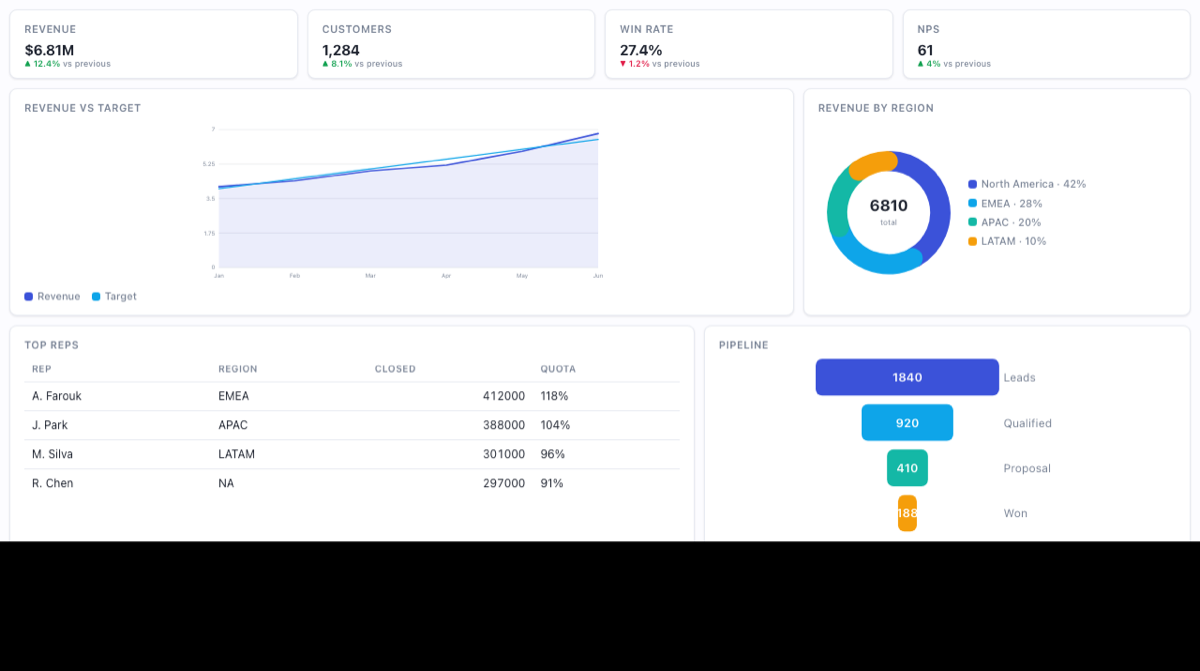
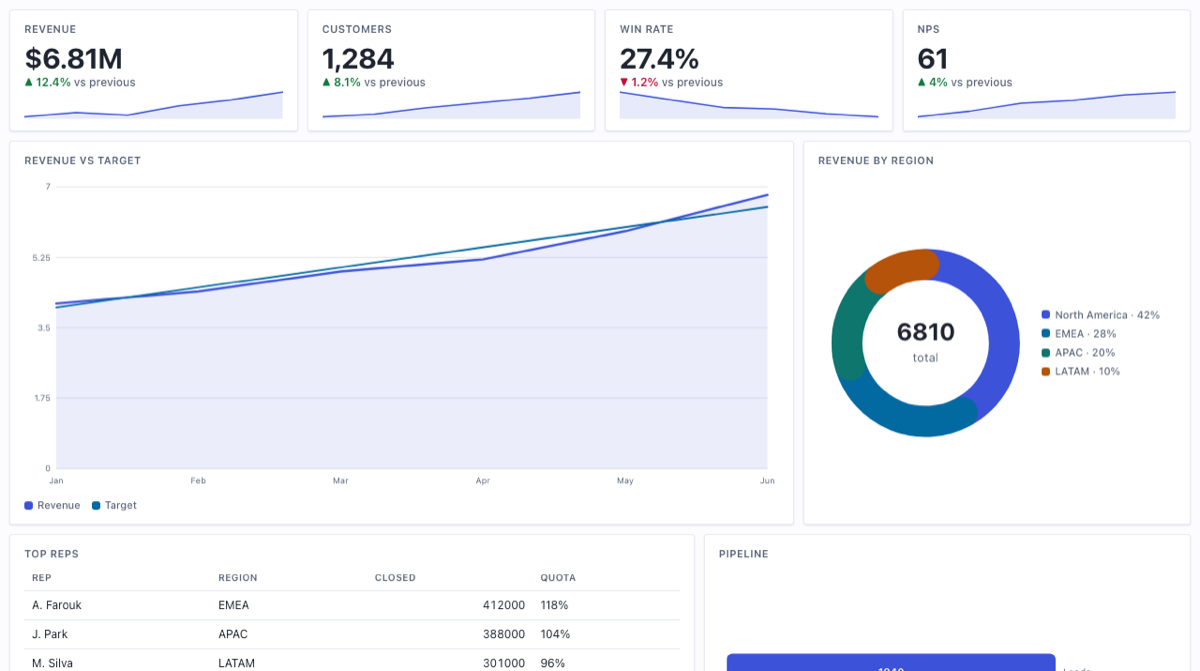
site: landing dashboard copy for the new kit; fresh fluid-board thumbnail

diff --git a/docs/index.html b/docs/index.html
@@ -328,9 +328,11 @@
           <span class="chip">Dashboards</span>
           <h3>Dashboards from pure data</h3>
           <p><b>Declare views as data; the kit packs the grid.</b> KPI cards, line, bar and donut
-            widgets tile a 12-column grid that is 100% of its container — drag to re-pack live, resize from any edge, undo any gesture,
+            widgets tile a 12-column grid that is 100% of its container — fluid by default, fitted to the frame or growing with it,
+            packed on a grid or shared through splitters. Drag from anywhere, the caption or a grip; resize from any edge; undo any gesture,
             or do all of it from the keyboard with every move announced.</p>
-          <p>Save and restore round-trips the whole board byte-for-byte.</p>
+          <p>Save and restore round-trips the whole board byte-for-byte — layouts, splitter trees and drag handle included. One flag, <code>static</code>, makes the same board read-only.</p>
+          <a class="go" href="demos/dashboard/fluid-board.html">Open the fluid dashboard →</a>
           <a class="go" href="demos/dashboard/dashboard-builder.html">Open the dashboard builder →</a>
         </div>
         <div class="story-stage">
@@ -409,7 +411,7 @@
           <p>ELK, dagre, force, tree, grid, and a zero-config <code>auto</code> — one prop. ELK loads lazily, so you ship none of it until a layout runs.</p></div>
         <div class="card"><span class="chip">Dashboards</span>
           <h3>A drag-pack dashboard kit</h3>
-          <p>Declared as pure data: fluid tabbed views, drag &amp; resize with live re-packing, undo, keyboard operation with a live region, and built-in KPI, line, bar, donut, funnel and table widgets.</p></div>
+          <p>Declared as pure data: fluid tabbed views, grid or split layout, fit or grow sizing, drag by caption or grip with live re-packing, undo, keyboard operation with a live region, a static viewer mode, and built-in KPI, line, bar, donut, funnel and table widgets.</p></div>
         <div class="card"><span class="chip">Collab</span>
           <h3>Multiplayer in one prop</h3>
           <p>CRDT sync over any transport, live cursors, anchored comment threads with a conversation panel — serverless cross-tab or your own websocket.</p></div>
